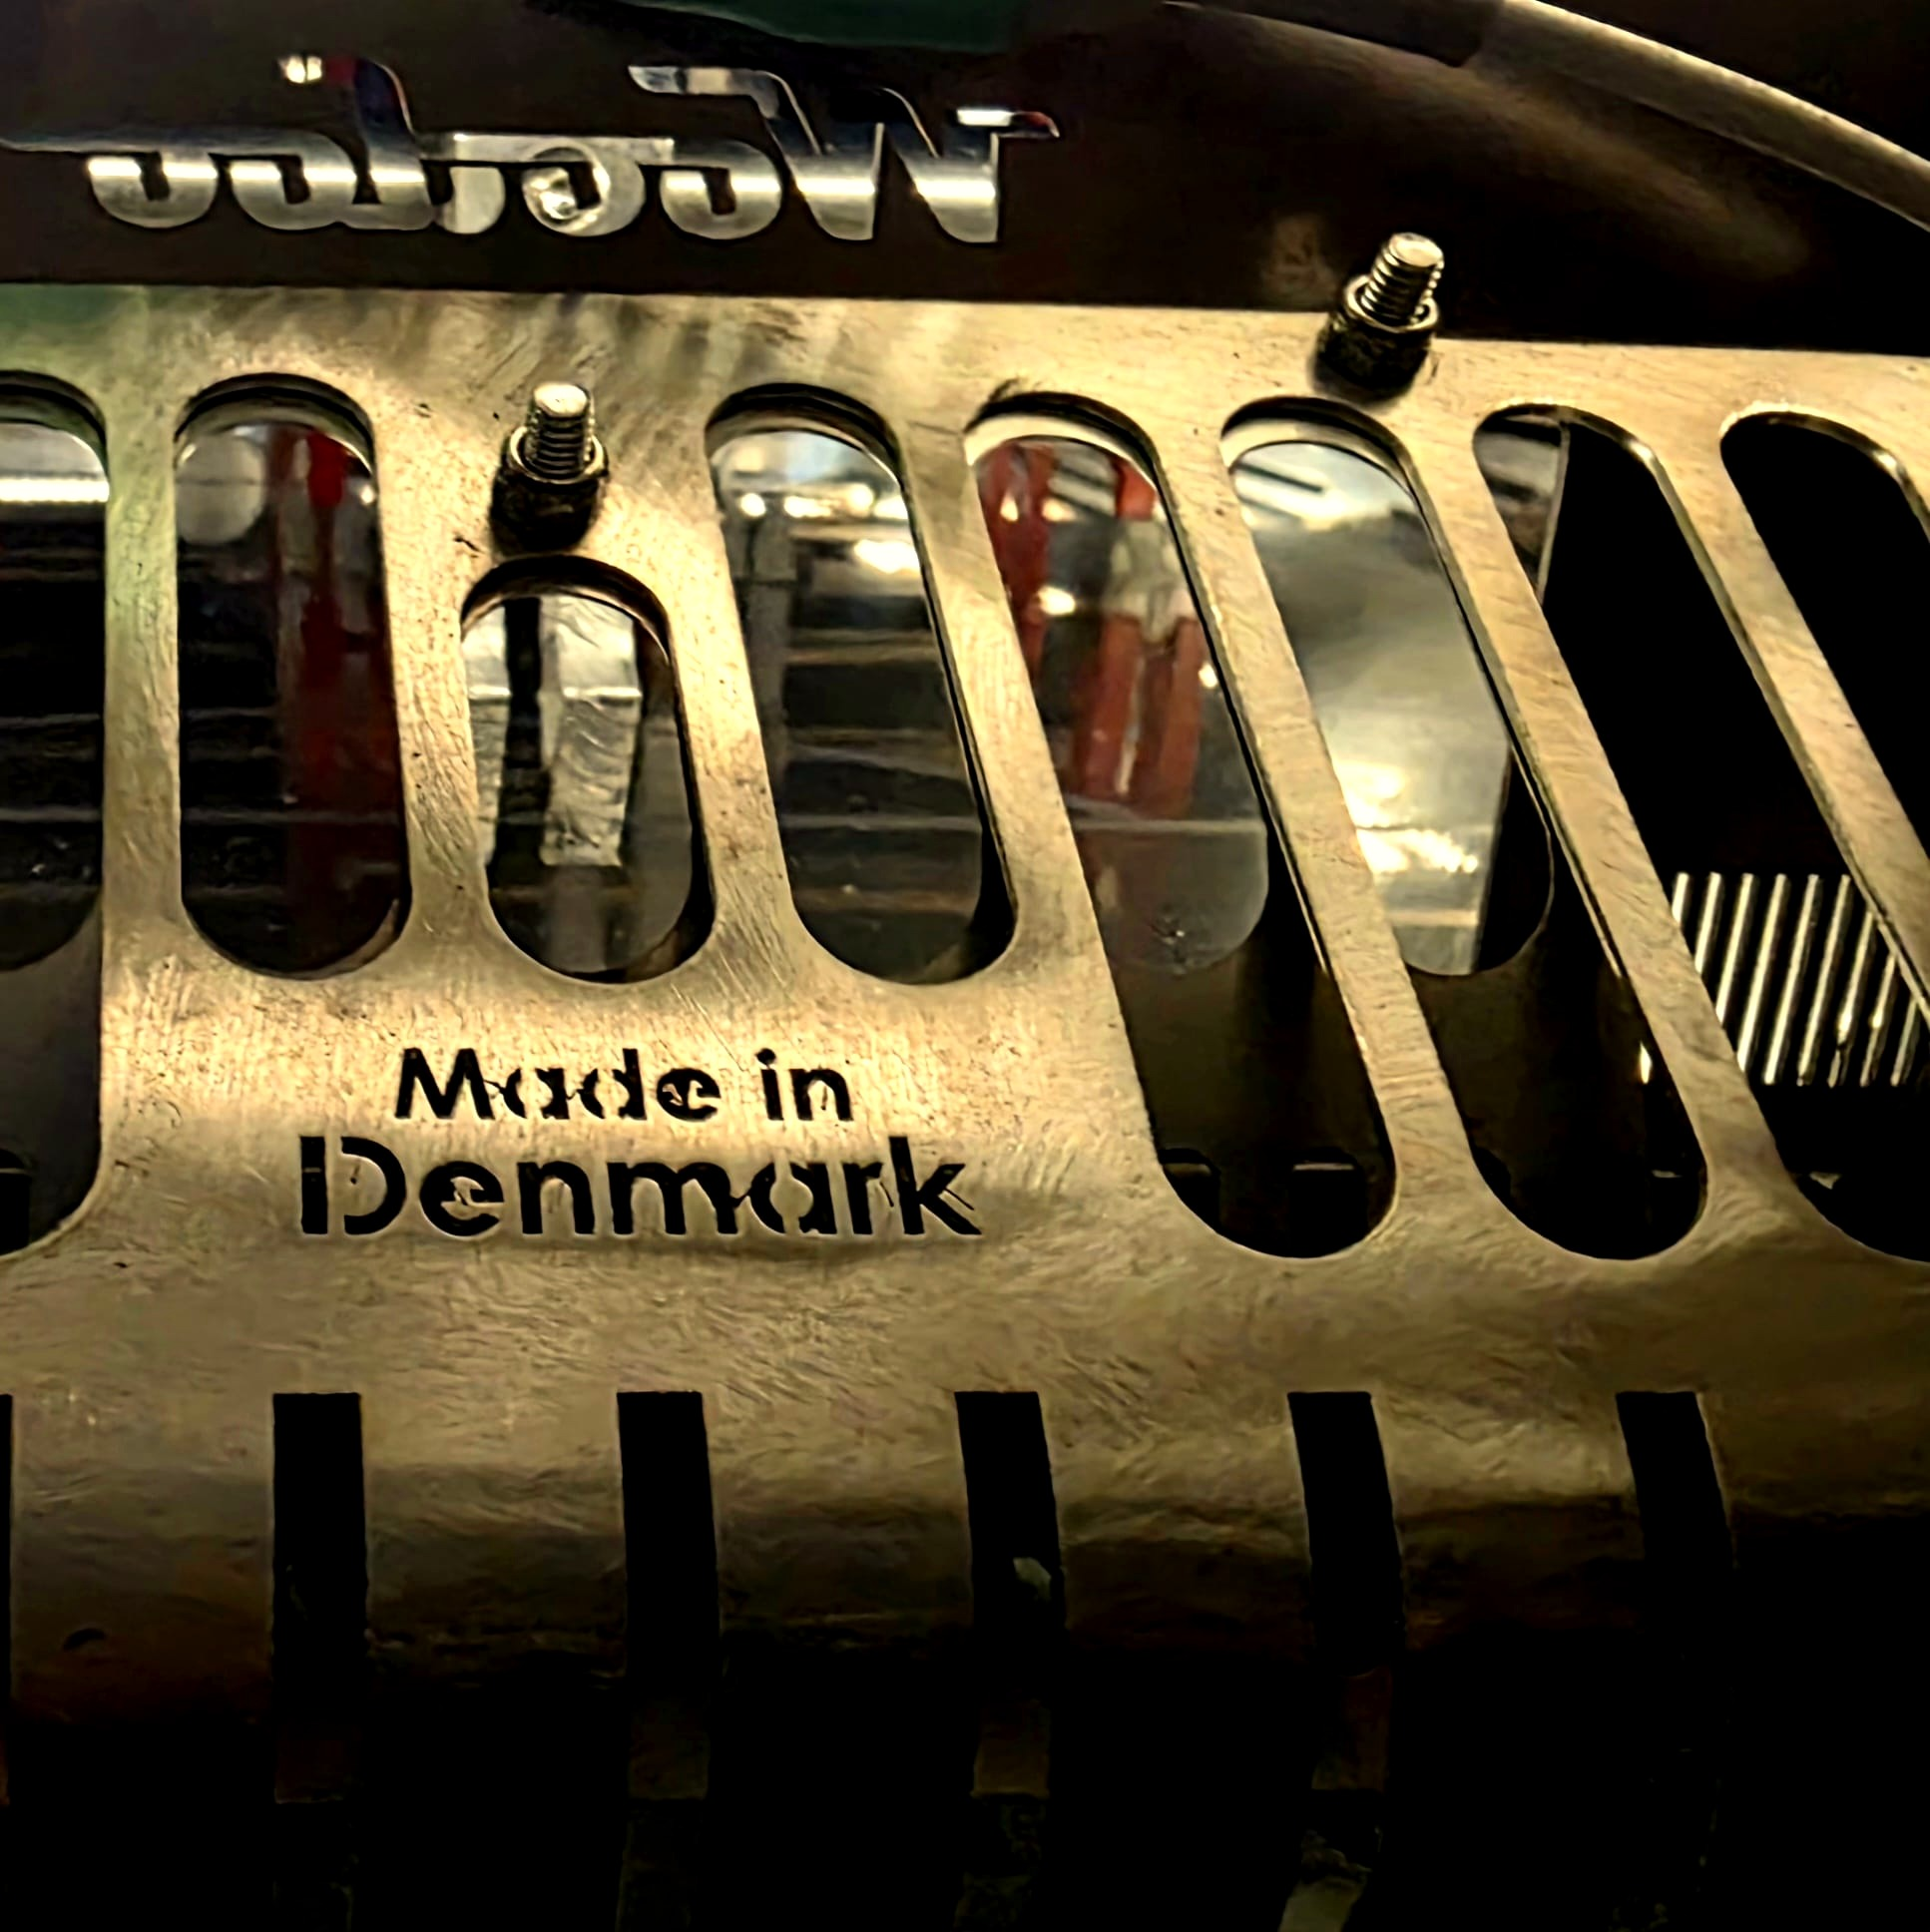
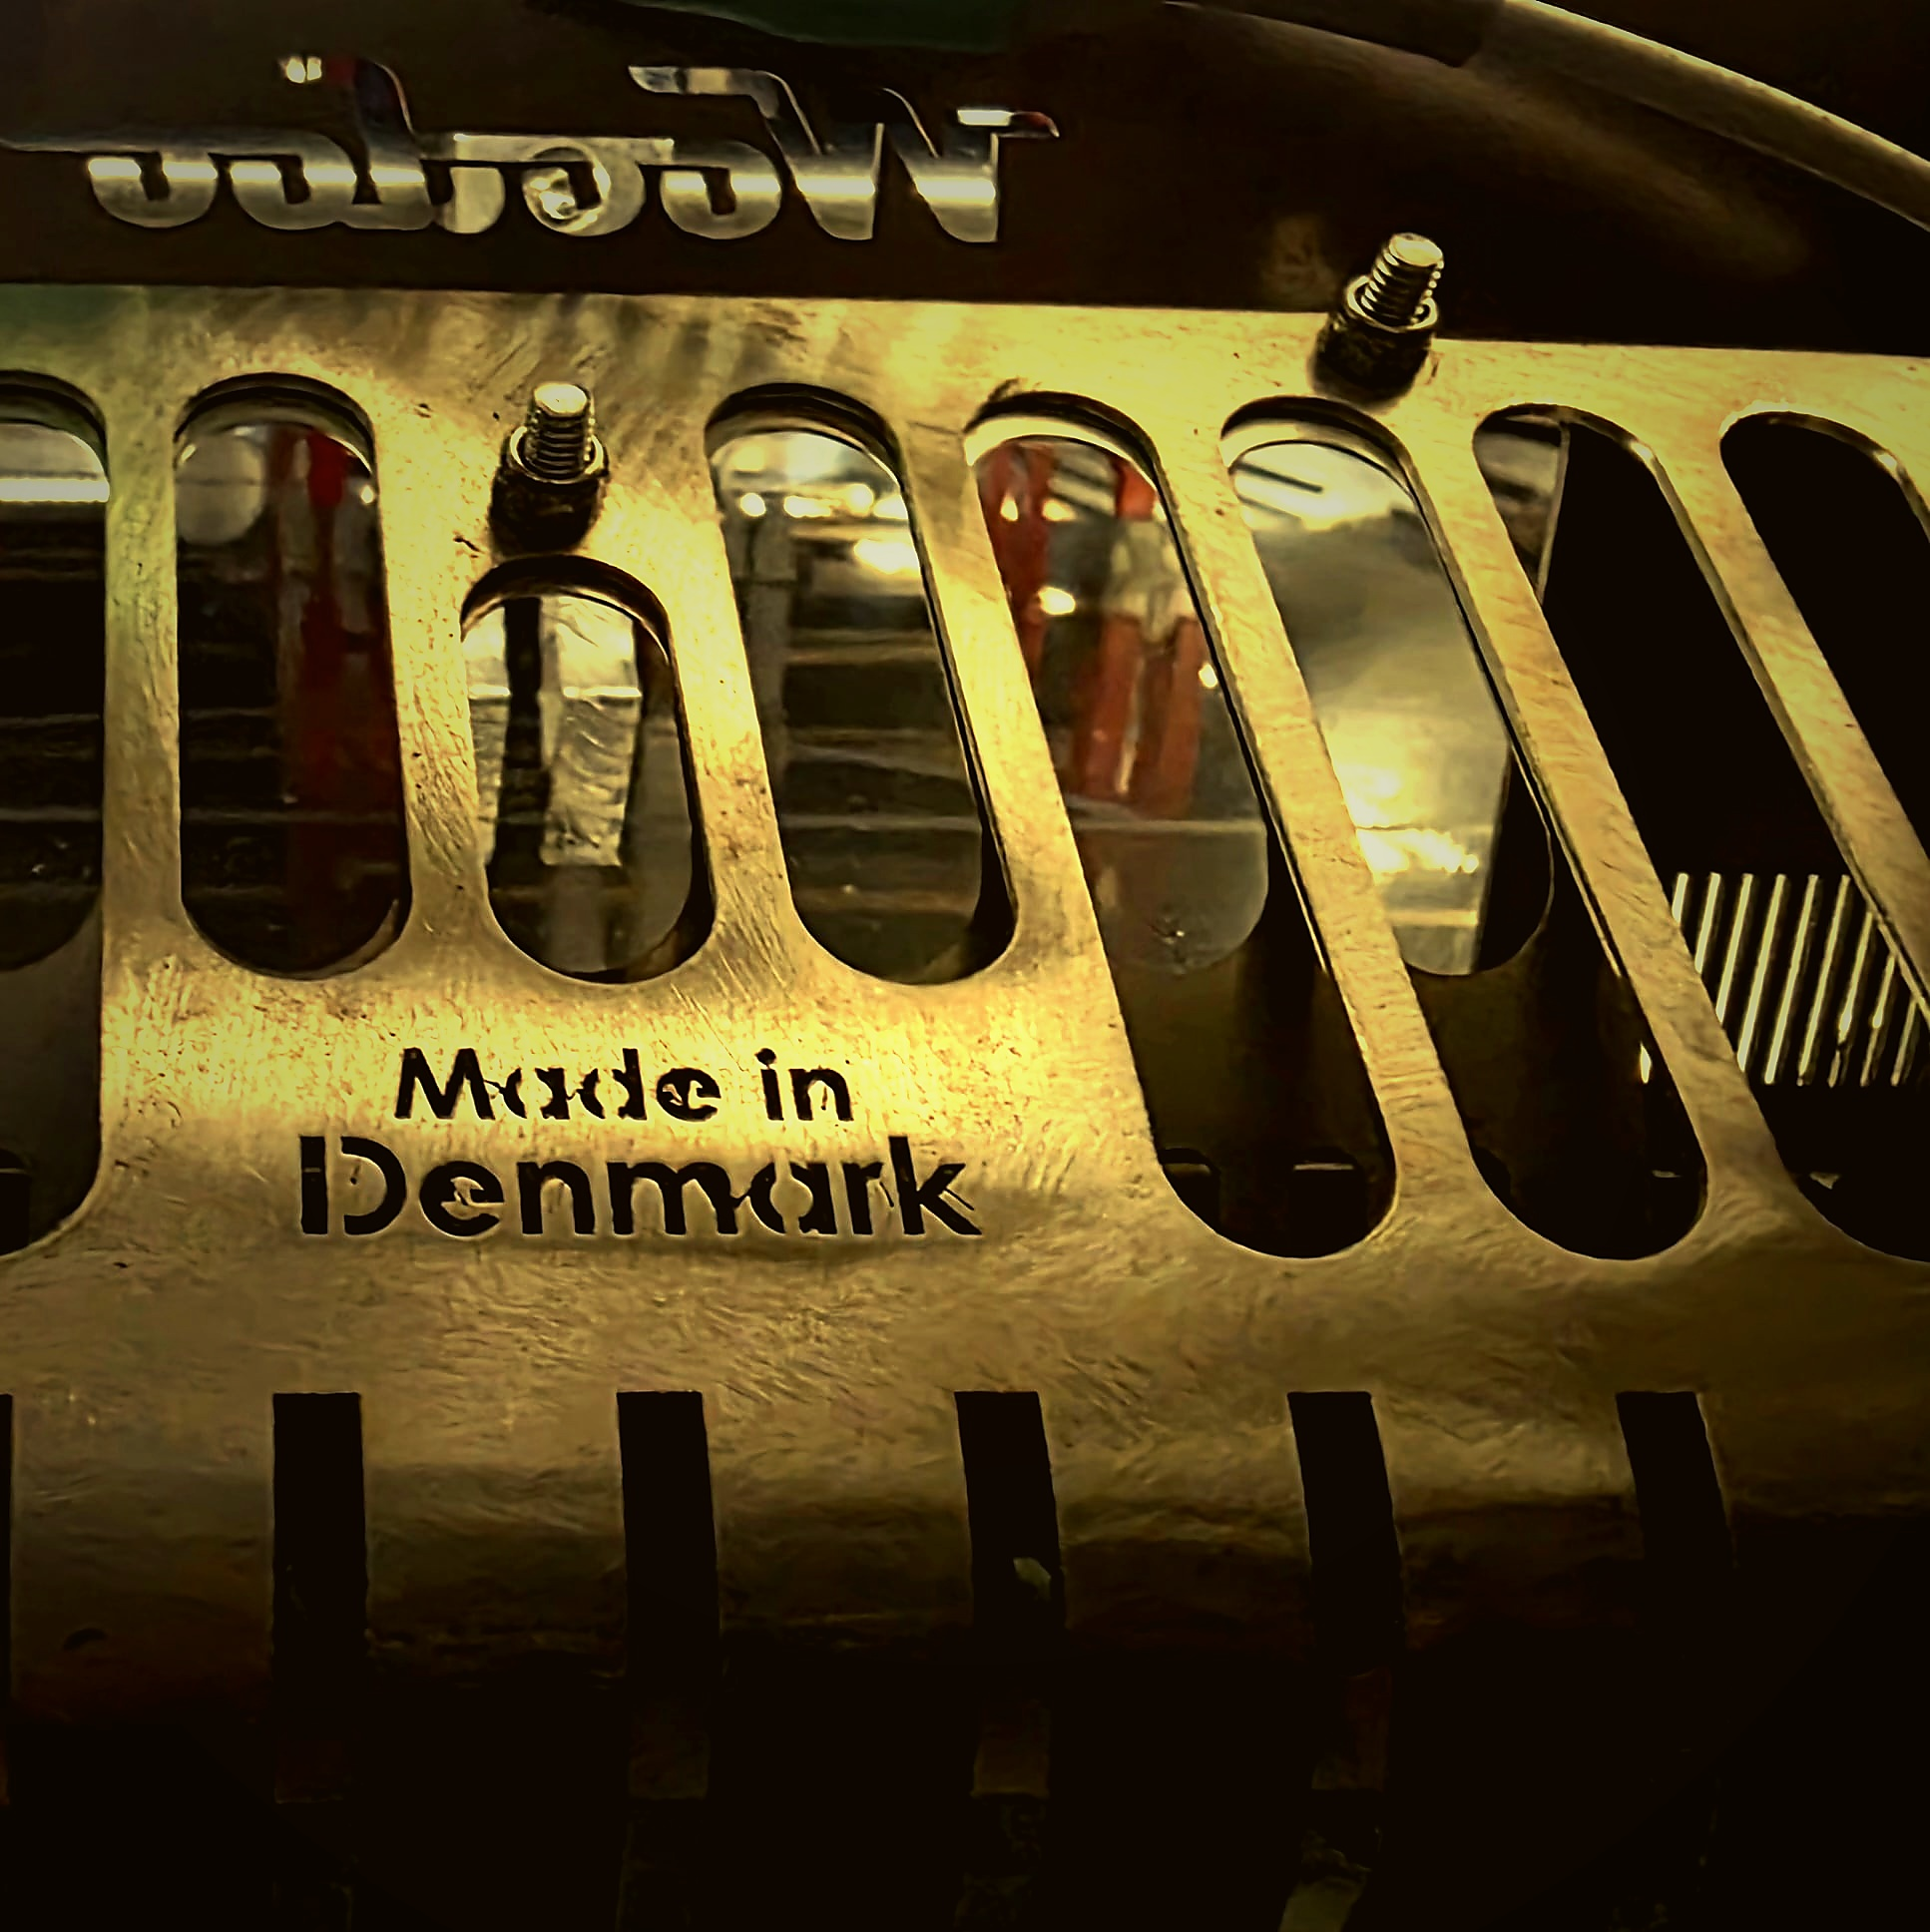
sync EN homepage images with DA

diff --git a/src/app/da/page.tsx b/src/app/da/page.tsx
@@ -70,7 +70,7 @@ export default function DaHome() {
         <div className="tt__media">
           <Image
             src="/uploads/graded_made_in_denmark.jpg"
-            alt="Ætset stålrist — Made in Denmark"
+            alt="Laseskåret stålrist — Made in Denmark"
             fill
             sizes="(max-width: 768px) 100vw, 50vw"
             priority
@@ -299,8 +299,8 @@ export default function DaHome() {
           </a>
           <a className="cell-photo" href="/da/galleri">
             <Image
-              src="/uploads/foosball_table_concrete_1.jpg"
-              alt="Sidevisning — helt bord"
+              src="/uploads/woodoo_stadium_top.png"
+              alt="Spilleflade"
               fill
               sizes="(max-width: 768px) 100vw, 50vw"
               loading="lazy"
@@ -308,7 +308,7 @@ export default function DaHome() {
             />
             <div className="overlay">
               <div className="overlay__label">
-                I profil<span className="meta">Side · Studie</span>
+                Spilleflade<span className="meta">Set fra toppen</span>
               </div>
             </div>
           </a>
@@ -324,6 +324,36 @@ export default function DaHome() {
             <div className="overlay">
               <div className="overlay__label">
                 Regn på stål<span className="meta">Alle forhold</span>
+              </div>
+            </div>
+          </a><a className="cell-photo" href="/da/galleri">
+            <Image
+              src="/uploads/foosball_table_concrete_3.jpg"
+              alt="Din beskrivelse"
+              fill
+              sizes="(max-width: 768px) 100vw, 50vw"
+              loading="lazy"
+              style={{ objectFit: "cover", objectPosition: "center center" }}
+            />
+            <div className="overlay">
+              <div className="overlay__label">
+               Stænger fra siden <span className="meta">Uovertruffen præcision</span>
+              </div>
+            </div>
+          </a>
+
+          <a className="cell-photo" href="/da/galleri">
+            <Image
+              src="/uploads/hero.png"
+              alt="Din beskrivelse"
+              fill
+              sizes="(max-width: 768px) 100vw, 50vw"
+              loading="lazy"
+              style={{ objectFit: "cover", objectPosition: "center center" }}
+            />
+            <div className="overlay">
+              <div className="overlay__label">
+                Frontvisning<span className="meta">Stadium 11-11</span>
               </div>
             </div>
           </a>

diff --git a/src/app/page.tsx b/src/app/page.tsx
@@ -16,7 +16,7 @@ export default function Home() {
       <section className="hero-bleed">
         <div className="hero-bleed__media">
           <Image
-            src="/uploads/hero.png"
+            src="/uploads/foosball_table_concrete.jpg"
             alt="Woodoo Stadium 11-11 — sculptural profile"
             fill
             sizes="100vw"
@@ -165,8 +165,8 @@ export default function Home() {
         </figure>
         <figure className="photo">
           <Image
-            src="/uploads/woodoo_scoring_slider.jpg"
-            alt="Scoring slider — amber detail"
+            src="/uploads/woodoo_stadium_top.png"
+            alt="Playing field — top view"
             fill
             sizes="(max-width: 768px) 100vw, 50vw"
             loading="lazy"
@@ -299,8 +299,8 @@ export default function Home() {
           </a>
           <a className="cell-photo" href="/gallery">
             <Image
-              src="/uploads/foosball_table_concrete_1.jpg"
-              alt="Side view — full table"
+              src="/uploads/woodoo_stadium_top.png"
+              alt="Playing field — top view"
               fill
               sizes="(max-width: 768px) 100vw, 50vw"
               loading="lazy"
@@ -314,7 +314,7 @@ export default function Home() {
           </a>
           <a className="cell-photo" href="/gallery">
             <Image
-              src="/uploads/working_hands_pressing_an_angle_grinder_woodoo_stadium.png"
+              src="/uploads/woodoo_stadium_11_11_raindrops.png"
               alt="Rain on steel"
               fill
               sizes="(max-width: 768px) 100vw, 50vw"